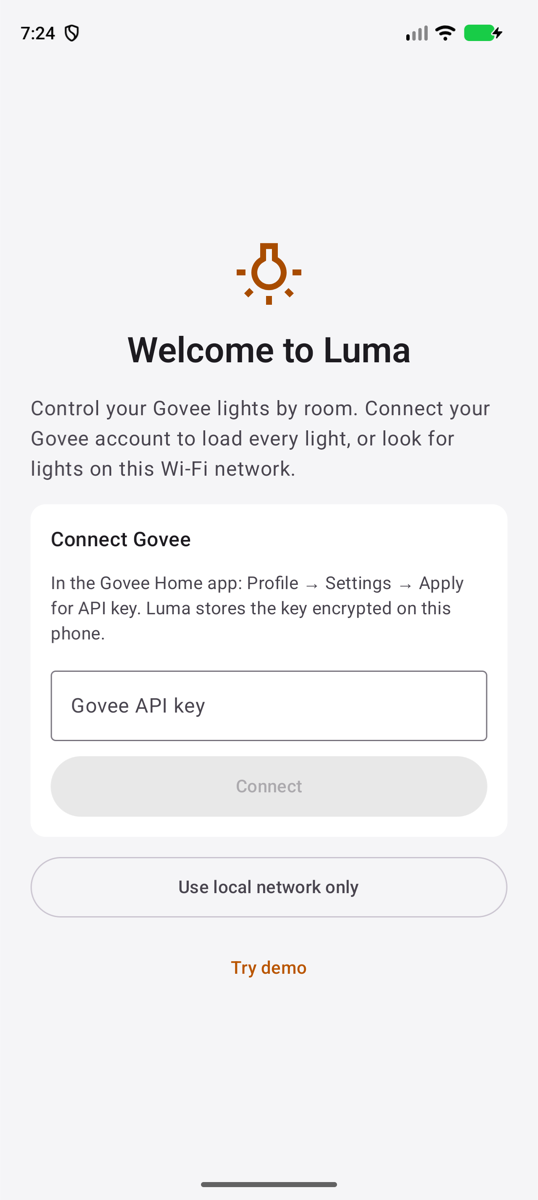
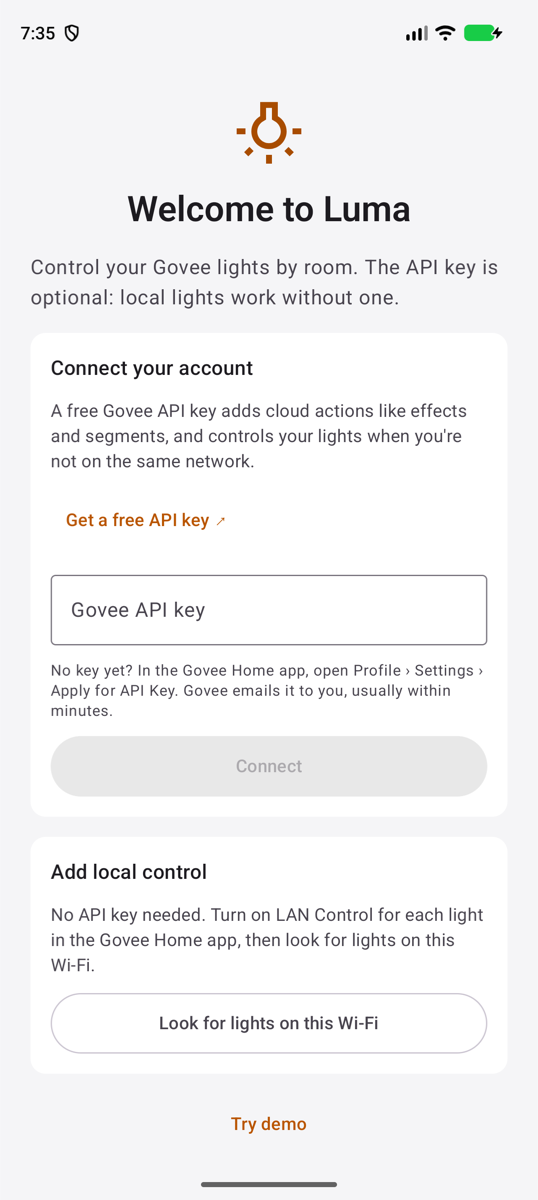
Make the Govee API key optional in Android onboarding, matching iOS copy

diff --git a/android/app/src/main/java/com/designxdevelop/luma/MainActivity.kt b/android/app/src/main/java/com/designxdevelop/luma/MainActivity.kt
@@ -57,6 +57,7 @@ import androidx.compose.runtime.setValue
 import androidx.compose.ui.Alignment
 import androidx.compose.ui.Modifier
 import androidx.compose.ui.graphics.Color
+import androidx.compose.ui.platform.LocalUriHandler
 import androidx.compose.ui.text.font.FontWeight
 import androidx.compose.ui.text.input.KeyboardType
 import androidx.compose.ui.text.input.PasswordVisualTransformation
@@ -72,6 +73,12 @@ class MainActivity : ComponentActivity() {
         setContent { LumaTheme { LumaRoot(store) } }
     }
 }
+
+// API-key copy shared with iOS, macOS and desktop (LightsView.swift, SettingsView.swift).
+const val GOVEE_KEY_URL = "https://developer.govee.com/reference/apply-you-govee-api-key"
+const val KEY_BENEFIT = "A free Govee API key adds cloud actions like effects and segments, and controls your lights when you're not on the same network."
+const val LAN_WITHOUT_KEY = "LAN Control works without a key for lights on the same Wi-Fi. You need a free Govee API key for cloud actions and to control lights when you're not on their network."
+const val NO_KEY_YET = "No key yet? In the Govee Home app, open Profile › Settings › Apply for API Key. Govee emails it to you, usually within minutes."
 
 // Theme.swift values: neutral surfaces, one warm accent.
 object LumaColors {
@@ -139,19 +146,28 @@ private fun Onboarding(store: HomeStore, modifier: Modifier) {
     ) {
         Icon(Icons.Outlined.WbIncandescent, null, Modifier.size(56.dp), tint = MaterialTheme.colorScheme.secondary)
         Text("Welcome to Luma", style = MaterialTheme.typography.headlineMedium, fontWeight = FontWeight.SemiBold)
-        Text("Control your Govee lights by room. Connect your Govee account to load every light, or look for lights on this Wi-Fi network.",
+        Text("Control your Govee lights by room. The API key is optional: local lights work without one.",
             style = MaterialTheme.typography.bodyLarge, color = MaterialTheme.colorScheme.onSurfaceVariant)
+        val uri = LocalUriHandler.current
         Card(Modifier.widthIn(max = 480.dp).fillMaxWidth(), colors = CardDefaults.cardColors(MaterialTheme.colorScheme.surfaceContainer)) {
             Column(Modifier.padding(16.dp), verticalArrangement = Arrangement.spacedBy(12.dp)) {
-                Text("Connect Govee", style = MaterialTheme.typography.titleMedium)
-                Text("In the Govee Home app: Profile → Settings → Apply for API key. Luma stores the key encrypted on this phone.",
-                    style = MaterialTheme.typography.bodyMedium, color = MaterialTheme.colorScheme.onSurfaceVariant)
+                Text("Connect your account", style = MaterialTheme.typography.titleMedium)
+                Text(KEY_BENEFIT, style = MaterialTheme.typography.bodyMedium, color = MaterialTheme.colorScheme.onSurfaceVariant)
+                TextButton({ uri.openUri(GOVEE_KEY_URL) }, Modifier.height(48.dp)) { Text("Get a free API key ↗") }
                 OutlinedTextField(key, { key = it }, Modifier.fillMaxWidth(), label = { Text("Govee API key") }, singleLine = true,
                     visualTransformation = PasswordVisualTransformation(), keyboardOptions = KeyboardOptions(keyboardType = KeyboardType.Password))
+                Text(NO_KEY_YET, style = MaterialTheme.typography.bodySmall, color = MaterialTheme.colorScheme.onSurfaceVariant)
                 Button({ store.connect(key) }, Modifier.fillMaxWidth().height(48.dp), enabled = key.isNotBlank()) { Text("Connect") }
             }
         }
-        OutlinedButton({ store.useLanOnly() }, Modifier.widthIn(max = 480.dp).fillMaxWidth().height(48.dp)) { Text("Use local network only") }
+        Card(Modifier.widthIn(max = 480.dp).fillMaxWidth(), colors = CardDefaults.cardColors(MaterialTheme.colorScheme.surfaceContainer)) {
+            Column(Modifier.padding(16.dp), verticalArrangement = Arrangement.spacedBy(12.dp)) {
+                Text("Add local control", style = MaterialTheme.typography.titleMedium)
+                Text("No API key needed. Turn on LAN Control for each light in the Govee Home app, then look for lights on this Wi-Fi.",
+                    style = MaterialTheme.typography.bodyMedium, color = MaterialTheme.colorScheme.onSurfaceVariant)
+                OutlinedButton({ store.useLanOnly() }, Modifier.fillMaxWidth().height(48.dp)) { Text("Look for lights on this Wi-Fi") }
+            }
+        }
         TextButton({ store.enterDemo() }, Modifier.height(48.dp)) { Text("Try demo") }
     }
 }
@@ -223,7 +239,15 @@ private fun SettingsScreen(store: HomeStore, modifier: Modifier) {
     if (keyDialog) {
         var key by remember { mutableStateOf("") }
         AlertDialog(onDismissRequest = { keyDialog = false }, title = { Text("Govee API key") },
-            text = { OutlinedTextField(key, { key = it }, singleLine = true, label = { Text("API key") }, visualTransformation = PasswordVisualTransformation()) },
+            text = {
+                val uri = LocalUriHandler.current
+                Column(verticalArrangement = Arrangement.spacedBy(8.dp)) {
+                    Text(LAN_WITHOUT_KEY, style = MaterialTheme.typography.bodyMedium)
+                    OutlinedTextField(key, { key = it }, singleLine = true, label = { Text("API key") }, visualTransformation = PasswordVisualTransformation())
+                    Text(NO_KEY_YET, style = MaterialTheme.typography.bodySmall)
+                    TextButton({ uri.openUri(GOVEE_KEY_URL) }) { Text("Get a free API key ↗") }
+                }
+            },
             confirmButton = { TextButton({ store.connect(key); keyDialog = false }, enabled = key.isNotBlank()) { Text("Save") } },
             dismissButton = { TextButton({ keyDialog = false }) { Text("Cancel") } })
     }

diff --git a/docs/ANDROID.md b/docs/ANDROID.md
@@ -33,7 +33,7 @@ Newer Compose BOMs need compileSdk 37.
 
 ## Implemented
 
-- **Onboarding:** connect a Govee API key, use the local network only, or try the demo.
+- **Onboarding:** the Govee API key is optional. There are three options: connect your account (with a "Get a free API key ↗" link), add local control (LAN Control lights on the same Wi-Fi need no key), or try the demo. The copy matches iOS, macOS and desktop.
   - The key is encrypted with a non-exportable Android Keystore AES-GCM key. Only the ciphertext is stored, in private SharedPreferences.
   - `allowBackup` is off, so the key is never put in a cloud backup.
 - **Home (Lights by room):**
